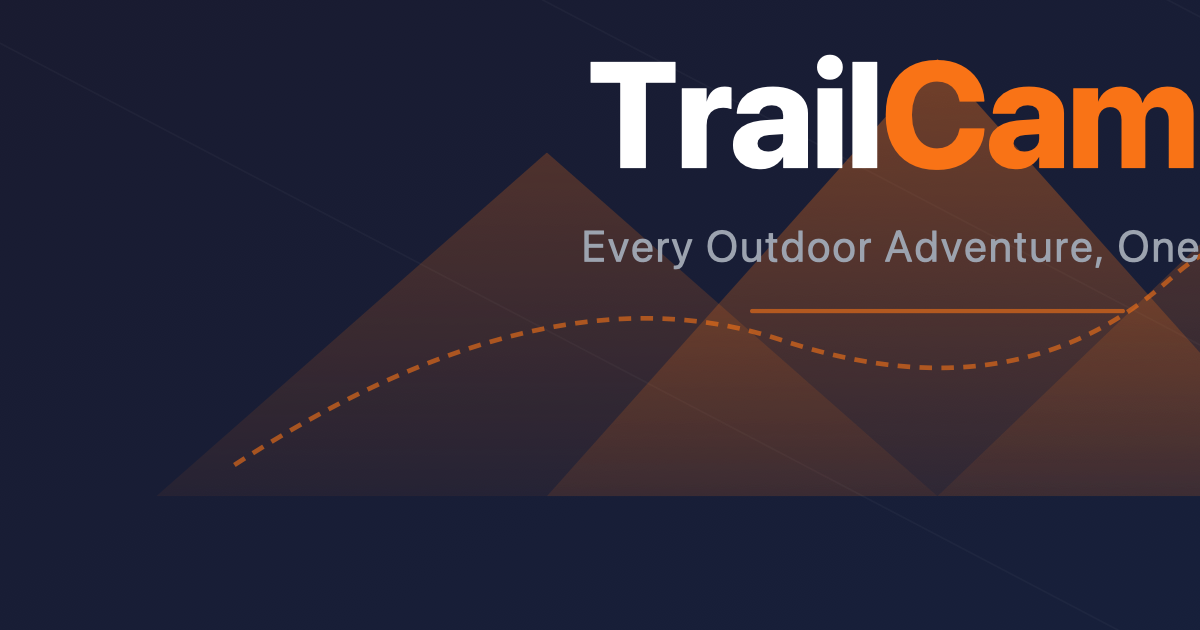
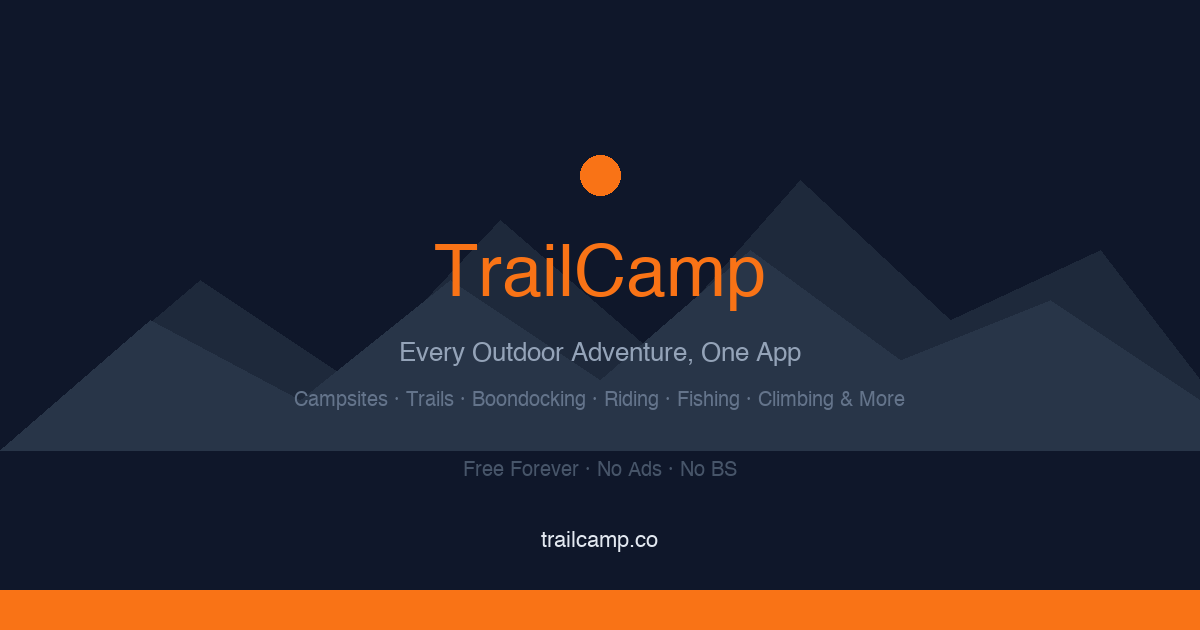
Ship-or-die: rate limit 300/min, OG image, ErrorState, EmptyState, legacy col comments
- Rate limit: 100 → 300/min (fixes map panning throttle)
- OG image: client/public/og-image.png (1200x630, dark theme)
- ErrorState component: warning icon + retry button
- EmptyState component: icon + title + description + CTA
- Both components already wired into CampsiteTab, RidingTab, MobileLocationDetail, RightPanel
- Toasts already present on favorites, photos, conditions, reviews
- Legacy single-user columns (visited, userRating, etc) tagged with LEGACY comments

diff --git a/client/src/components/EmptyState.tsx b/client/src/components/EmptyState.tsx
@@ -1,3 +1,5 @@
+import React from 'react';
+
 interface EmptyStateProps {
   icon?: string;
   title: string;
@@ -6,20 +8,16 @@ interface EmptyStateProps {
   onAction?: () => void;
 }
 
-export default function EmptyState({ icon, title, description, actionLabel, onAction }: EmptyStateProps) {
+export default function EmptyState({ icon = '📭', title, description, actionLabel, onAction }: EmptyStateProps) {
   return (
-    <div className="flex flex-col items-center justify-center p-8 text-center">
-      {icon && (
-        <div className="w-16 h-16 rounded-2xl bg-dark-800/50 flex items-center justify-center mb-4">
-          <span className="text-2xl">{icon}</span>
-        </div>
-      )}
-      <p className="text-sm font-medium text-gray-400 mb-1">{title}</p>
-      {description && <p className="text-xs text-gray-600 mb-4">{description}</p>}
+    <div className="flex flex-col items-center justify-center py-12 px-4 text-center">
+      <div className="text-4xl mb-3">{icon}</div>
+      <h3 className="text-gray-200 font-medium text-sm mb-1">{title}</h3>
+      {description && <p className="text-gray-400 text-xs mb-4 max-w-[240px]">{description}</p>}
       {actionLabel && onAction && (
         <button
           onClick={onAction}
-          className="px-4 py-2 text-sm font-medium rounded-lg bg-orange-500 hover:bg-orange-600 text-white transition-colors"
+          className="px-4 py-2 bg-orange-500 hover:bg-orange-600 text-white text-sm rounded-lg transition-colors"
         >
           {actionLabel}
         </button>

diff --git a/client/src/components/ErrorState.tsx b/client/src/components/ErrorState.tsx
@@ -1,21 +1,19 @@
-import { AlertTriangle } from 'lucide-react';
+import React from 'react';
 
 interface ErrorStateProps {
-  message: string;
+  message?: string;
   onRetry?: () => void;
 }
 
-export default function ErrorState({ message, onRetry }: ErrorStateProps) {
+export default function ErrorState({ message = 'Something went wrong', onRetry }: ErrorStateProps) {
   return (
-    <div className="flex flex-col items-center justify-center p-8 text-center">
-      <div className="w-14 h-14 rounded-2xl bg-orange-500/10 flex items-center justify-center mb-4">
-        <AlertTriangle className="w-7 h-7 text-orange-400" />
-      </div>
-      <p className="text-sm text-gray-300 mb-4">{message}</p>
+    <div className="flex flex-col items-center justify-center py-12 px-4 text-center">
+      <div className="text-4xl mb-3">⚠</div>
+      <p className="text-gray-300 text-sm mb-4">{message}</p>
       {onRetry && (
         <button
           onClick={onRetry}
-          className="px-4 py-2 text-sm font-medium rounded-lg bg-orange-500 hover:bg-orange-600 text-white transition-colors"
+          className="px-4 py-2 bg-orange-500 hover:bg-orange-600 text-white text-sm rounded-lg transition-colors"
         >
           Try Again
         </button>

diff --git a/server/src/db/schema.ts b/server/src/db/schema.ts
@@ -75,7 +75,9 @@ export const locations = pgTable(
 
     // User interaction (legacy single-user — kept for migration compat)
     // LEGACY: migrate to user_location_data table
+    // LEGACY: migrate to user_location_data table
     userRating: integer('user_rating'),
+    // LEGACY: migrate to user_location_data table
     // LEGACY: migrate to user_location_data table
     userNotes: text('user_notes'),
     // LEGACY: migrate to user_location_data table
@@ -256,7 +258,9 @@ export const userLocationData = pgTable(
     visited: integer('visited').notNull().default(0),
     visitedDate: text('visited_date'),
     wantToVisit: integer('want_to_visit').notNull().default(0),
+    // LEGACY: migrate to user_location_data table
     userRating: integer('user_rating'),
+    // LEGACY: migrate to user_location_data table
     userNotes: text('user_notes'),
     createdAt: timestamp('created_at', { withTimezone: true }).notNull().defaultNow(),
     updatedAt: timestamp('updated_at', { withTimezone: true }).notNull().defaultNow(),
